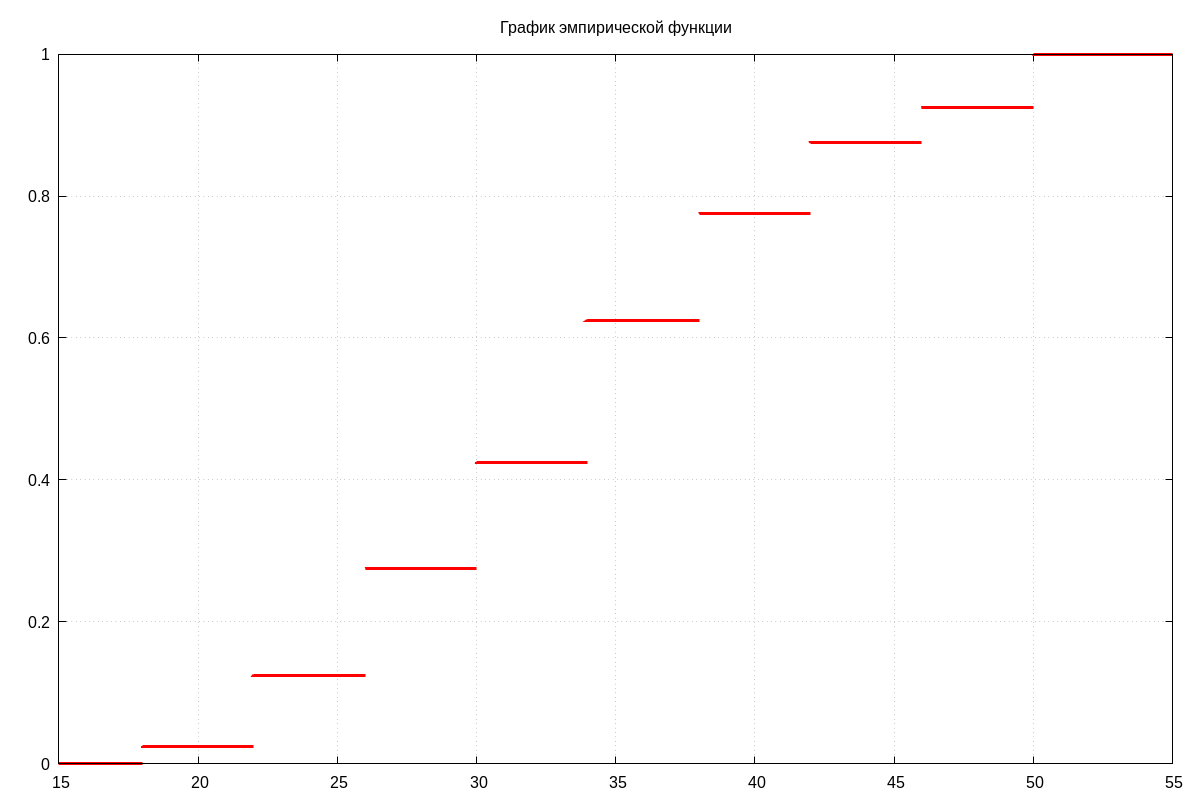
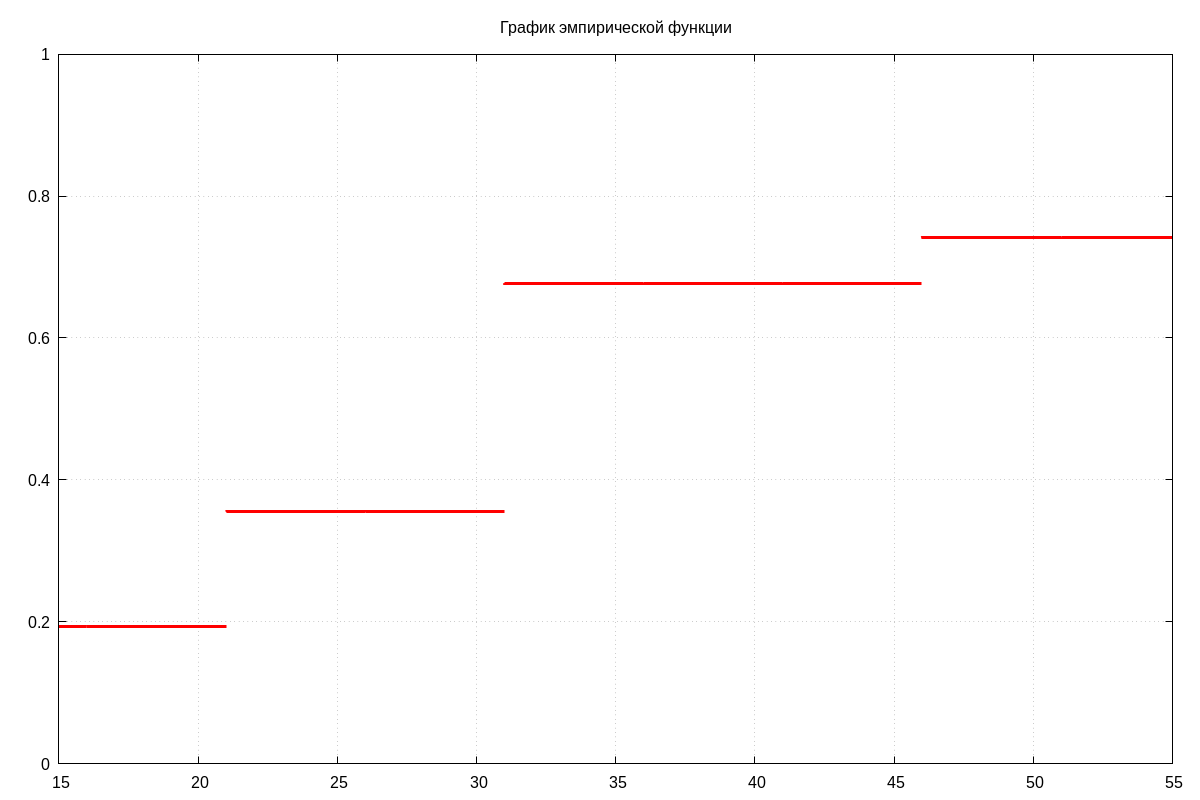
Final corct of ProbTheory for fifth sem

diff --git a/Sem5/ProbTheory/task_3/solve.cpp b/Sem5/ProbTheory/task_3/solve.cpp
@@ -110,7 +110,15 @@ void findNormalCurve(const table & series, table & normalCurve, double sampleAve
 void findHypothesisTable(const table & normalCurve, table & HypothesisTable)
 {
   HypothesisTable[0] = normalCurve[1];
-  HypothesisTable[1] = normalCurve[5];
+  //HypothesisTable[1] = normalCurve[5];
+  for (size_t i = 0; i < HypothesisTable[0].size(); ++i)
+  {
+    HypothesisTable[1].push_back((int)(normalCurve[5][i]));
+    if (((normalCurve[5][i]) * 10) - (((int)(normalCurve[5][i])) * 10) > 5)
+    {
+      ++HypothesisTable[1][i];
+    }
+  }
   for (size_t i = 0; i < HypothesisTable[0].size(); ++i)
   {
     HypothesisTable[2].push_back(HypothesisTable[0][i] - HypothesisTable[1][i]);

diff --git a/Sem5/ProbTheory/task_3/main.cpp b/Sem5/ProbTheory/task_3/main.cpp
@@ -12,7 +12,7 @@ int main()
 {
   setlocale(LC_ALL, "Russian");
 
-  std::vector< int > arr = {
+/*  std::vector< int > arr = {
     43, 49, 25, 22,
     28, 36, 36, 28,
     45, 21, 48, 49,
@@ -24,8 +24,10 @@ int main()
     32, 34, 35, 35,
     44, 21, 31, 37
     };
+*/
+  std::vector< int > arr = {11, 11, 11, 11, 11, 11, 22, 22, 22, 22, 22, 33, 33, 33, 33, 33, 33, 33, 33, 33, 33, 44, 44, 55, 55, 55, 55, 55, 55, 55, 55};
   std::sort(arr.begin(), arr.end());
-  const int numOfInterval = 9;
+  const int numOfInterval = 10;
 
   //Find h
   int h = ((arr[arr.size() - 1] - arr[0]) / numOfInterval);
